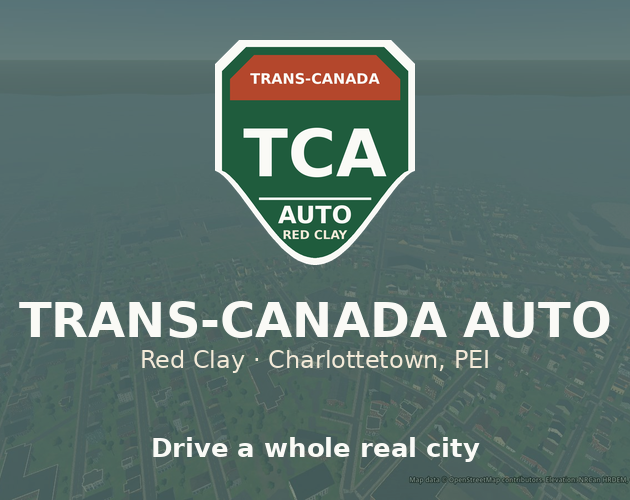
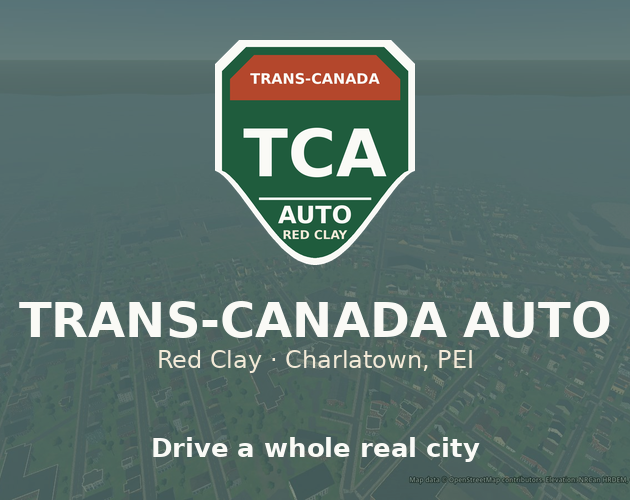
The city is Charlatown: Charlottetown said lazily
Our name for Charlottetown, the way GTA's cities stand in for real ones.
It goes everywhere a player sees the name: the title screen and loading
screen, the itch.io images and page, the 2 West gantry on Riverside Drive,
the Spud Kings crest, and the police station (Charlatown Donut Patrol).
OSM names used to match fences and areas keep the real name.

Claude-Session: https://claude.ai/code/session_0115CjrcRgCPLXSwCf7u74MF

Changed region(s): [[0.2111, 0.69, 0.7841, 0.75]]

diff --git a/tools/make_branding.py b/tools/make_branding.py
@@ -143,7 +143,7 @@ def splash():
     img.paste(shield, (w // 2 - 210, 90), shield)
     d = ImageDraw.Draw(img)
     _centred(d, "TRANS-CANADA AUTO", w / 2, 640, font(96), WHITE)
-    _centred(d, "Red Clay  ·  Charlottetown, Prince Edward Island", w / 2, 715, font(40, bold=False), CREAM)
+    _centred(d, "Red Clay  ·  Charlatown, Prince Edward Island", w / 2, 715, font(40, bold=False), CREAM)
     return img
 
 
@@ -157,7 +157,7 @@ def title_art():
     big = _fit(d, "TRANS-CANADA", font(120), 1060)
     d.text((410, 70), "TRANS-CANADA", font=big, fill=WHITE)
     d.text((410, 200), "AUTO", font=big, fill=WHITE)
-    d.text((414, 340), "RED CLAY  ·  CHARLOTTETOWN, PEI", font=font(46, bold=False), fill=CREAM)
+    d.text((414, 340), "RED CLAY  ·  CHARLATOWN, PEI", font=font(46, bold=False), fill=CREAM)
     return img
 
 
@@ -172,7 +172,7 @@ def cover():
     img.paste(shield, (w // 2 - 100, 40), shield)
     d = ImageDraw.Draw(img)
     _centred(d, "TRANS-CANADA AUTO", w / 2, 320, font(48), WHITE)
-    _centred(d, "Red Clay · Charlottetown, PEI", w / 2, 362, font(24, bold=False), CREAM)
+    _centred(d, "Red Clay · Charlatown, PEI", w / 2, 362, font(24, bold=False), CREAM)
     _centred(d, "Drive a whole real city", w / 2, 450, font(26), WHITE)
     return img
 
@@ -185,7 +185,7 @@ def banner():
     img.paste(shield, (40, 46), shield)
     d = ImageDraw.Draw(img)
     d.text((260, 80), "TRANS-CANADA AUTO", font=_fit(d, "TRANS-CANADA AUTO", font(70), 670), fill=WHITE)
-    sub = "Red Clay \u00b7 Charlottetown, Prince Edward Island"
+    sub = "Red Clay \u00b7 Charlatown, Prince Edward Island"
     d.text((264, 170), sub, font=_fit(d, sub, font(30, bold=False), 670), fill=CREAM)
     return img
 

diff --git a/tools/make_clothing_prints.py b/tools/make_clothing_prints.py
@@ -6,7 +6,7 @@ Each print is designed like real merch: its own lettering (fonts in
 tools/fonts/, see the README there), one or two inks the way a screen
 print would be, and a short, deadpan line rather than a joke with an
 explanation. Every brand is made up, a send-up of life on Prince Edward
-Island and in Charlottetown.
+Island and in Charlatown (our Charlottetown).
 
 Run from the repository root:
 
@@ -235,7 +235,7 @@ def pay_to_leave(t, d):
 
 
 def spud_kings(t, d):
-    # The Charlottetown Spud Kings, junior hockey.
+    # The Charlatown Spud Kings, junior hockey.
     d.ellipse((20, 20, T - 20, T - 20), fill=NAVY)
     d.ellipse((34, 34, T - 34, T - 34), outline=GOLD, width=8)
     d.ellipse((118, 118, T - 118, T - 118), outline=GOLD, width=5)
@@ -243,7 +243,7 @@ def spud_kings(t, d):
     crown = [(T / 2 - 62, 230), (T / 2 - 70, 160), (T / 2 - 32, 196), (T / 2, 146), (T / 2 + 32, 196), (T / 2 + 70, 160), (T / 2 + 62, 230)]
     d.polygon(crown, fill=GOLD)
     arc(t, "SPUD KINGS", "college", 58, CREAM, T / 2, T / 2, 180, top=True, tracking=0.1)
-    arc(t, "CHARLOTTETOWN", "college", 38, GOLD, T / 2, T / 2, 186, top=False, tracking=0.14)
+    arc(t, "CHARLATOWN", "college", 38, GOLD, T / 2, T / 2, 186, top=False, tracking=0.14)
 
 
 def varsity_s(t, d):

diff --git a/README.md b/README.md
@@ -6,8 +6,10 @@ woods come from OpenStreetMap, the ground, building heights and trees from
 a real lidar survey. The plan is to grow a map at a time, the way the
 Trans-Canada runs province to province.
 
-**The first map is Red Clay: Charlottetown, Prince Edward Island.** Right
-now it's a prototype that feels good to move around in, not a full game.
+**The first map is Red Clay: Charlatown, Prince Edward Island**, our
+Charlottetown, the way GTA's cities stand in for real ones. Signs and the
+title screen say Charlatown; on the Island everyone just calls it town.
+Right now it's a prototype that feels good to move around in, not a full game.
 
 Website (coming): playtca.ca
 
@@ -174,7 +176,7 @@ drum's curve as part of the footprint and the lidar shows it standing
 1.5 m over the roof, so the drum goes wherever a footprint has a round
 part like that.
 
-The city police station on Kirkwood Drive is the Charlottetown Donut
+The city police station on Kirkwood Drive is the Charlatown Donut
 Patrol (open 24 hours, back at Tim Hardly's in 5): a navy board with white letters
 over the front, facing Kirkwood Drive.
 
@@ -840,7 +842,7 @@ Trans-Canada Auto is meant to grow a map at a time. A map is one
 
 | Map | Place | What's in it |
 |---|---|---|
-| **Red Clay** | Charlottetown, PEI | The whole city inside the bypass and Riverside Drive |
+| **Red Clay** | Charlatown (Charlottetown), PEI | The whole city inside the bypass and Riverside Drive |
 
 Another place (Halifax, say) would be built the same way: cut its
 OpenStreetMap data and lidar with the tools in `tools/`, give it its own

diff --git a/docs/itch-page.md b/docs/itch-page.md
@@ -14,7 +14,7 @@ with `python3 tools/make_branding.py`) and `branding/screens/`.
 |---|---|
 | Title | Trans-Canada Auto |
 | Project URL | trans-canada-auto |
-| Short description or tagline | Drive a whole real city: Charlottetown, PEI, built from open map data and lidar. |
+| Short description or tagline | Drive a whole real city: Charlatown (Charlottetown, PEI), built from open map data and lidar. |
 | Classification | Games |
 | Kind of project | HTML (you'll still have downloads too) |
 | Release status | Prototype |
@@ -74,7 +74,7 @@ Paste this into the page's description:
 
 **Trans-Canada Auto** is an open-world driving game set in real Canadian
 places, one map at a time. The first map is **Red Clay**: the whole of
-Charlottetown, Prince Edward Island, inside the bypass.
+Charlatown, our Charlottetown, Prince Edward Island, inside the bypass.
 
 Every street is where it really is, from OpenStreetMap. The ground, the
 height and roof of every building and some 63,000 trees come from Natural
